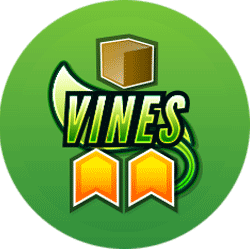
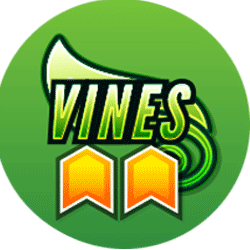
Rework plants vines and lure

diff --git a/server/classes/factions/Plants.js b/server/classes/factions/Plants.js
@@ -23,7 +23,6 @@ class Plants extends Faction {
                 influence: 2,
                 type: 'vines',
                 cost: 0,
-                resource: 1,
                 areaStat : true,
                 description : 'enemy players must pay 1 for each unit they deploy or move away from here'
             }
@@ -77,13 +76,13 @@ class Plants extends Faction {
     }
 
 
-    factionsWithAdjacentUnits( area ){
+    factionsWithAdjacentPatsies( area ){
         let factions = {};
 
         area.data.adjacent.forEach( areaName => {
             Object.values( this.game().factions ).forEach( faction => {
                 if( faction.name === this.name ) return;
-                if( faction.data.units.find( unit => _.unitInArea( unit, areaName, { basic : true } ) ) ) factions[ faction.name ] = true;
+                if( faction.data.units.find( unit => _.unitInArea( unit, areaName, { types : ['patsy'] } ) ) ) factions[ faction.name ] = true;
             });
         });
 
@@ -93,34 +92,24 @@ class Plants extends Faction {
     async soulLure( event ){
         let player, data, promises = [], units = [], area = this.game().areas[event.unit.location];
 
-        let factions = this.factionsWithAdjacentUnits( area );
+        this.game().message({ faction : this, message : `The Soul of the Green begins to sing...` });
 
-        if( !factions.length ) return this.game().message({ message : 'No adjacent units to lure', class : 'warning' });
+        let factions = this.factionsWithAdjacentPatsies( area );
 
-        [player, data] = await this.game().promise({
-            players: this.playerId,
-            name: 'choose-players',
-            data: {
-                factions : factions,
-                canDecline : true,
-                message: `Choose players to move a unit to The ${area.name} from an adjacent area`
-            }
-        }).catch( error => console.error( error ) );
-
-        if( !data.factions.length || data.decline ) return;
+        if( !factions.length ) return this.game().message({ message : 'No adjacent patsies to lure', class : 'warning' });
 
         try {
-            for( let factionName of data.factions ) {
+            for( let factionName of factions ) {
                 let faction = this.game().factions[factionName];
 
-                let factionAreas = faction.areasWithUnits({ adjacent : area.data.adjacent, basicOnly : true });
+                let factionAreas = faction.areasWithUnits({ adjacent : area.data.adjacent, types : ['patsy'] });
 
                 promises.push( this.game().promise({ players: faction.playerId, name: 'choose-units', data : {
                     count : 1,
                     areas : factionAreas,
-                    basicOnly : true,
+                    unitTypes : ['patsy'],
                     playerOnly : true,
-                    message : `Choose a unit to move to The ${area.name}`
+                    message : `Choose a patsy to move to The ${area.name}`
                 }}).then( async ([player, data]) => {
 
                     let unit = this.game().objectMap[data.units[0]];
@@ -137,7 +126,7 @@ class Plants extends Faction {
             await Promise.all( promises );
 
             await this.game().timedPrompt('units-shifted', {
-                message: `The following units were lured to The ${area.name}`,
+                message: `Patsies were lured to The ${area.name}`,
                 units: units
             });
 
